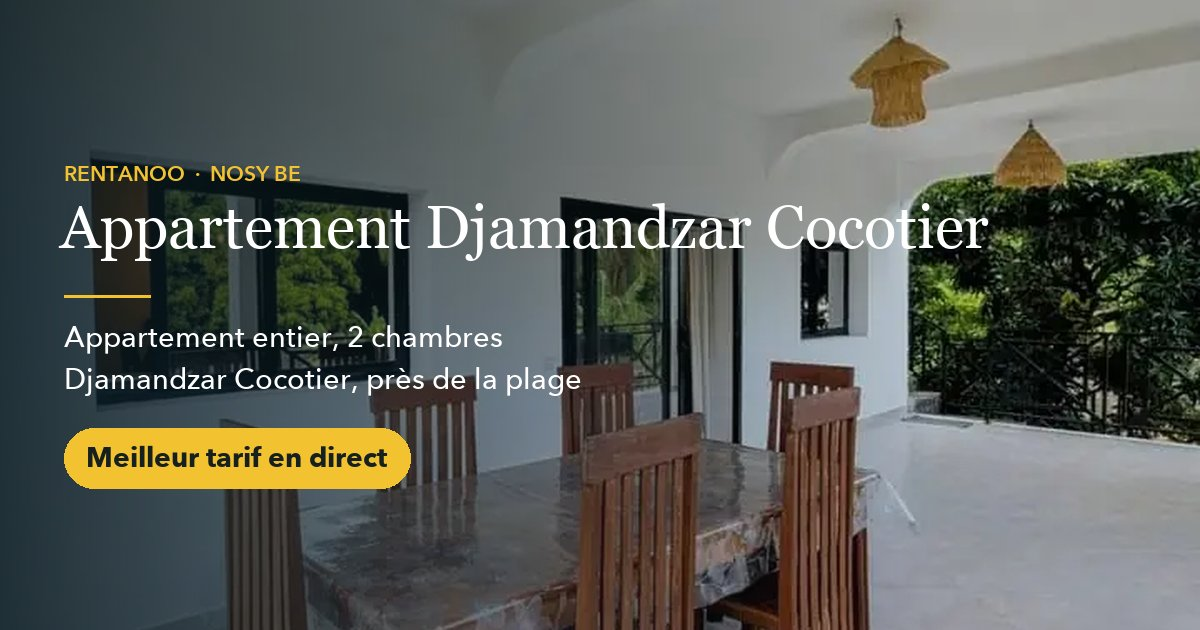
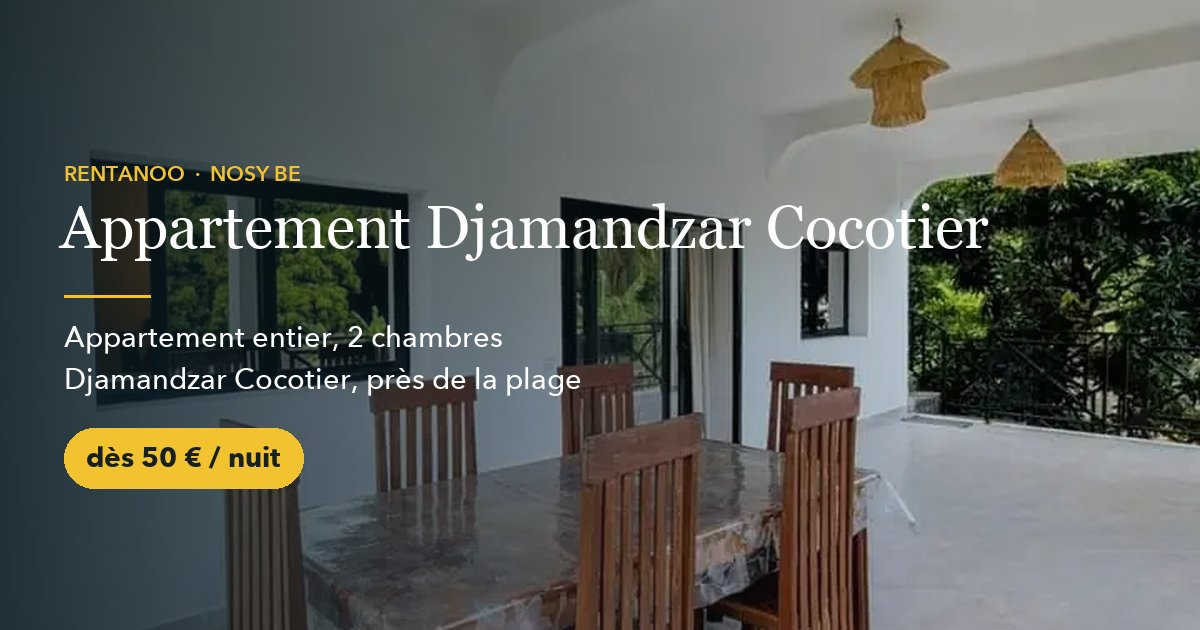
Prix affiché : dès 50 € la nuit (offre de Fred, plancher 45 €)

Changed region(s): [[0.0617, 0.6635, 0.3392, 0.7841]]

diff --git a/index.html b/index.html
@@ -34,7 +34,7 @@
 <meta name="twitter:image" content="https://chambre-djamandzar.rentanoo.com/images/og.jpg">
 
 <script type="application/ld+json">
-{"@type": "LodgingBusiness", "name": "Appartement Djamandzar Cocotier", "description": "Appartement entier à l'étage à Djamandzar Cocotier (Nosy Be), à deux pas de la plage : 2 chambres, jusqu'à 4 personnes, séjour avec TV, cuisine équipée, salle de bain avec douche et chauffe-eau, WC séparé, grande terrasse couverte avec barbecue, Wi-Fi Starlink, gardien, femme de ménage. Pas de climatisation (ventilateurs).", "url": "https://chambre-djamandzar.rentanoo.com/", "image": ["https://chambre-djamandzar.rentanoo.com/images/og.jpg", "https://chambre-djamandzar.rentanoo.com/images/repas-1.webp"], "telephone": "+261373437912", "email": "chrisrentanoo@gmail.com", "address": {"@type": "PostalAddress", "addressLocality": "Djamandzar", "addressRegion": "Nosy Be", "addressCountry": "MG"}, "areaServed": "Nosy Be", "amenityFeature": [{"@type": "LocationFeatureSpecification", "name": "Wifi Starlink", "value": true}, {"@type": "LocationFeatureSpecification", "name": "Salle de bain", "value": true}, {"@type": "LocationFeatureSpecification", "name": "Cuisine équipée", "value": true}, {"@type": "LocationFeatureSpecification", "name": "Terrasse", "value": true}, {"@type": "LocationFeatureSpecification", "name": "Barbecue", "value": true}, {"@type": "LocationFeatureSpecification", "name": "Gardien sur place", "value": true}, {"@type": "LocationFeatureSpecification", "name": "Femme de ménage", "value": true}, {"@type": "LocationFeatureSpecification", "name": "Espace de travail", "value": true}], "sameAs": ["https://rentanoo.com/hebergement/6D419168"], "numberOfRooms": 2, "@context": "https://schema.org"}
+{"@type": "LodgingBusiness", "name": "Appartement Djamandzar Cocotier", "description": "Appartement entier à l'étage à Djamandzar Cocotier (Nosy Be), à deux pas de la plage : 2 chambres, jusqu'à 4 personnes, séjour avec TV, cuisine équipée, salle de bain avec douche et chauffe-eau, WC séparé, grande terrasse couverte avec barbecue, Wi-Fi Starlink, gardien, femme de ménage. Pas de climatisation (ventilateurs).", "url": "https://chambre-djamandzar.rentanoo.com/", "image": ["https://chambre-djamandzar.rentanoo.com/images/og.jpg", "https://chambre-djamandzar.rentanoo.com/images/repas-1.webp"], "telephone": "+261373437912", "email": "chrisrentanoo@gmail.com", "address": {"@type": "PostalAddress", "addressLocality": "Djamandzar", "addressRegion": "Nosy Be", "addressCountry": "MG"}, "areaServed": "Nosy Be", "amenityFeature": [{"@type": "LocationFeatureSpecification", "name": "Wifi Starlink", "value": true}, {"@type": "LocationFeatureSpecification", "name": "Salle de bain", "value": true}, {"@type": "LocationFeatureSpecification", "name": "Cuisine équipée", "value": true}, {"@type": "LocationFeatureSpecification", "name": "Terrasse", "value": true}, {"@type": "LocationFeatureSpecification", "name": "Barbecue", "value": true}, {"@type": "LocationFeatureSpecification", "name": "Gardien sur place", "value": true}, {"@type": "LocationFeatureSpecification", "name": "Femme de ménage", "value": true}, {"@type": "LocationFeatureSpecification", "name": "Espace de travail", "value": true}], "sameAs": ["https://rentanoo.com/hebergement/6D419168"], "numberOfRooms": 2, "priceRange": "À partir de 50 € la nuit", "currenciesAccepted": "EUR", "@context": "https://schema.org"}
 </script>
 
 <link rel="preconnect" href="https://fonts.googleapis.com">
@@ -298,11 +298,11 @@
     <p data-i18n="k42" class="hero-sub">Un appartement entier de 2 chambres au milieu des cocotiers, à deux pas de la plage, avec grande terrasse et Wi-Fi Starlink.</p>
     <ul class="chips"><li><span data-i18n="k1">Appartement entier</span></li><li><span data-i18n="k2">Jusqu'à 4 personnes</span></li><li><span data-i18n="k3">Wifi Starlink</span></li><li><span data-i18n="k4">Minimum 3 nuits</span></li></ul>
     <div class="hero-row">
-      <span class="price-tag ask"><b data-i18n="best">Meilleur tarif en direct</b></span>
+      <span class="price-tag"><span data-i18n="from">dès</span> <b>50 €</b> <span data-i18n="per-night">la nuit</span></span>
       <a class="btn btn-cta" href="#reservation" data-i18n="cta-dates">Demander mes dates</a>
       <a class="btn btn-ghost" href="#" data-wa="hero"><svg><use href="#i-wa"/></svg>WhatsApp</a>
     </div>
-    <p data-i18n="k37" class="price-note">Prix sur demande selon vos dates · réponse rapide sur WhatsApp</p>
+    <p data-i18n="k37" class="price-note">Le meilleur tarif, c'est en direct · réponse rapide sur WhatsApp</p>
   </div>
 </section>
 
@@ -412,7 +412,7 @@
   <div class="wrap">
     <div class="resa-head" data-reveal>
       <p data-i18n="resa-eyebrow" class="eyebrow">Réservation</p>
-      <div class="resa-price"><span data-i18n="best">Meilleur tarif en direct</span></div>
+      <div class="resa-price"><span data-i18n="from">dès</span> <b>50 €</b> <span data-i18n="per-night">la nuit</span></div>
       <h2 data-i18n="resa-title" class="h2">Demandez vos dates</h2>
       <p data-i18n="resa-text">Choisissez vos dates et laissez-nous vos coordonnées : on revient vers vous très vite avec la disponibilité et le meilleur prix.</p>
     </div>
@@ -460,7 +460,7 @@
 </footer>
 
 <div id="sticky" aria-hidden="true">
-  <div class="p"><b data-i18n="best" style="font-size:14px">Meilleur tarif en direct</b></div>
+  <div class="p"><span data-i18n="from">dès</span> <b>50 € <span style="font-size:12px;font-weight:600;color:var(--ink-2)" data-i18n="per-night">la nuit</span></b></div>
   <a class="btn btn-cta" href="#reservation" data-i18n="cta-dates">Demander mes dates</a>
 </div>
 
@@ -511,7 +511,7 @@ if('IntersectionObserver' in window){var io=new IntersectionObserver(function(es
 else document.querySelectorAll('[data-reveal]').forEach(function(el){el.classList.add('in')});
 
 /* Traductions : FR dans le HTML, IT/EN ici (générées par build.py, clé = data-i18n) */
-var T={"k1": {"it": "Appartamento intero", "en": "Whole apartment"}, "k2": {"it": "Fino a 4 persone", "en": "Up to 4 guests"}, "k3": {"it": "Wi-Fi Starlink", "en": "Starlink Wi-Fi"}, "k4": {"it": "Minimo 3 notti", "en": "3-night minimum"}, "k5": {"it": "Appartamento intero, 2 camere", "en": "Whole apartment, 2 bedrooms"}, "k6": {"it": "Fino a 4 persone", "en": "Up to 4 guests"}, "k7": {"it": "A due passi dalla spiaggia", "en": "A short walk from the beach"}, "k8": {"it": "Wi-Fi Starlink", "en": "Starlink Wi-Fi"}, "k9": {"it": "Grande terrazza con barbecue", "en": "Large terrace with barbecue"}, "k10": {"it": "Netflix sulla TV del soggiorno", "en": "Netflix on the living-room TV"}, "k11": {"it": "Custode sul posto", "en": "Caretaker on site"}, "k12": {"it": "Governante", "en": "Housekeeper"}, "k13": {"it": "Un appartamento intero al primo piano, a Djamandzar Cocotier, a due passi dalla spiaggia.", "en": "A whole upstairs apartment in Djamandzar Cocotier, a short walk from the beach."}, "k14": {"it": "2 camere, un soggiorno luminoso con TV e Netflix, una cucina attrezzata con bancone, un bagno con doppio lavabo, doccia e scaldabagno, e un WC separato. Fuori, una grande terrazza coperta con tavolo e barbecue, davanti al giardino e alle palme.", "en": "2 bedrooms, a bright living room with TV and Netflix, an equipped kitchen with a bar, a bathroom with a double basin, shower and water heater, and a separate WC. Outside, a large covered terrace with a table and barbecue, facing the garden and the palms."}, "k15": {"it": "Wi-Fi Starlink e spazio per lavorare. Niente aria condizionata: ventilatori a parete in soggiorno e 2 ventilatori per camera, vetri anti-calore e zanzariere ovunque. Custode e governante sul posto.", "en": "Starlink Wi-Fi and a spot to work from. No air conditioning: wall fans in the living room and 2 fans in each bedroom, heat-filtering windows and mosquito screens throughout. Caretaker and housekeeper on site."}, "k16": {"it": "A due passi dai ristoranti del Nosy Be Hotel e dai bar di Djamandzar.", "en": "A stone's throw from the Nosy Be Hotel restaurants and the bars of Djamandzar."}, "k17": {"it": "Le camere", "en": "The bedrooms"}, "k18": {"it": "2 camere", "en": "2 bedrooms"}, "k19": {"it": "Fino a 4 persone", "en": "Up to 4 guests"}, "k20": {"it": "Soggiorno minimo 3 notti", "en": "3-night minimum stay"}, "k21": {"it": "Cancellazione gratuita fino a 72 ore prima dell'arrivo", "en": "Free cancellation up to 72 h before arrival"}, "k22": {"it": "Massimo 4 persone", "en": "4 guests maximum"}, "k23": {"it": "Le 2 camere", "en": "The 2 bedrooms"}, "k24": {"it": "Due camere, ognuna con 2 ventilatori, vetri anti-calore e zanzariere.", "en": "Two bedrooms, each with 2 fans, heat-filtering windows and mosquito screens."}, "see-photos": {"it": "Vedi le foto", "en": "See the photos"}, "k25": {"it": "Soggiorno, cucina e terrazza", "en": "Living room, kitchen & terrace"}, "k26": {"it": "Cucina attrezzata", "en": "Equipped kitchen"}, "k27": {"it": "Terrazza", "en": "Terrace"}, "k28": {"it": "Barbecue", "en": "Barbecue"}, "k29": {"it": "Soggiorno, cucina e terrazza", "en": "Living room, kitchen & terrace"}, "k30": {"it": "Una cucina attrezzata con bancone e sgabelli, un soggiorno con TV e Netflix, e una grande terrazza coperta con tavolo e barbecue, davanti al giardino.", "en": "An equipped kitchen with a bar and stools, a living room with TV and Netflix, and a large covered terrace with a table and barbecue, facing the garden."}, "k31": {"it": "Bagno", "en": "Bathroom"}, "k32": {"it": "Doccia", "en": "Shower"}, "k33": {"it": "Acqua calda", "en": "Hot water"}, "k34": {"it": "WC separato", "en": "Separate WC"}, "k35": {"it": "Il bagno", "en": "The bathroom"}, "k36": {"it": "Un bagno con doppio lavabo, doccia e scaldabagno, e un WC separato.", "en": "A bathroom with a double basin, shower and water heater, plus a separate WC."}, "k37": {"it": "Prezzo su richiesta in base alle date · risposta rapida su WhatsApp", "en": "Price on request for your dates · quick reply on WhatsApp"}, "cta-book": {"it": "Prenota", "en": "Book"}, "cta-dates": {"it": "Chiedi le tue date", "en": "Request your dates"}, "best": {"it": "Tariffa migliore prenotando direttamente", "en": "Best rate when you book direct"}, "pf-best": {"it": "Tariffa migliore", "en": "Best rate"}, "k38": {"it": "L'alloggio", "en": "The place"}, "k39": {"it": "Stanza per stanza", "en": "Room by room"}, "k40": {"it": "Il quartiere", "en": "The area"}, "k41": {"it": "Djamandzar Cocotier · Nosy Be", "en": "Djamandzar Cocotier · Nosy Be"}, "k42": {"it": "Un appartamento intero con 2 camere tra le palme da cocco, a due passi dalla spiaggia, con grande terrazza e Wi-Fi Starlink.", "en": "A whole 2-bedroom apartment among the coconut palms, a short walk from the beach, with a large terrace and Starlink Wi-Fi."}, "k43": {"it": "Appartamento intero", "en": "Whole apartment"}, "k44": {"it": "Tra le palme da cocco", "en": "Among the coconut palms"}, "direct-eyebrow": {"it": "Prenota direttamente", "en": "Book direct"}, "direct-title": {"it": "La tariffa migliore è qui", "en": "The best rate is here"}, "direct-text": {"it": "Sulle piattaforme il prezzo a notte include le loro commissioni. Prenotando direttamente con noi pagate meno: inviateci le date e vi rispondiamo con il prezzo migliore.", "en": "On booking platforms, the nightly price includes their commissions. Book directly with us and you pay less: send us your dates and we reply with the best price."}, "direct-1": {"it": "Più conveniente delle piattaforme per le stesse date", "en": "Cheaper than the platforms for the same dates"}, "direct-2": {"it": "Parlate direttamente con noi, risposta rapida su WhatsApp", "en": "You talk directly to us, quick replies on WhatsApp"}, "direct-3": {"it": "Transfer, scooter, auto o escursione organizzati subito", "en": "Transfer, scooter, car or excursion arranged in one go"}, "rooms-eyebrow": {"it": "Stanza per stanza", "en": "Room by room"}, "k45": {"it": "Visitate l'alloggio", "en": "Take the tour"}, "rooms-lead": {"it": "Tutte le foto sono dell'alloggio. Toccate una foto per ingrandirla.", "en": "All photos are of the place itself. Tap a photo to enlarge it."}, "area-eyebrow": {"it": "Il quartiere", "en": "The area"}, "k46": {"it": "Djamandzar, tra le palme da cocco", "en": "Djamandzar, among the coconut palms"}, "k47": {"it": "Djamandzar Cocotier, sulla costa ovest di Nosy Be: la spiaggia a due passi, i ristoranti del Nosy Be Hotel e i bar della zona vicinissimi.", "en": "Djamandzar Cocotier, on the west coast of Nosy Be: the beach a short walk away, the Nosy Be Hotel restaurants and the local bars close by."}, "host-eyebrow": {"it": "Prenotazione", "en": "Booking"}, "host-title": {"it": "Ciao, sono Chris", "en": "Hi, I'm Chris"}, "k48": {"it": "Con Rentanoo accolgo viaggiatori a Nosy Be tutto l'anno e gestisco le prenotazioni di diversi alloggi sull'isola, tra cui questo. Il mio lavoro è rendervi il soggiorno facile.", "en": "With Rentanoo I welcome travellers to Nosy Be all year round and handle bookings for several places on the island, including this one. My job is to make your stay easy."}, "host-2": {"it": "Rispondo rapidamente, dalla mattina alla sera, in francese, inglese o italiano.", "en": "I reply quickly, from morning to evening, in French, English or Italian."}, "svc-title": {"it": "Su richiesta, Rentanoo organizza anche:", "en": "On request, Rentanoo also arranges:"}, "svc-1": {"it": "Transfer dall'aeroporto", "en": "Airport transfer"}, "svc-2": {"it": "Noleggio di scooter o quad", "en": "Scooter or quad rental"}, "svc-3": {"it": "Escursioni e taxi-boat", "en": "Excursions and taxi-boat"}, "svc-4": {"it": "Auto con o senza autista", "en": "Car with or without a driver"}, "resa-eyebrow": {"it": "Prenotazione", "en": "Booking"}, "resa-title": {"it": "Chiedete le vostre date", "en": "Request your dates"}, "resa-text": {"it": "Scegliete le date e lasciateci i vostri recapiti: vi ricontattiamo molto presto con la disponibilità e il prezzo migliore.", "en": "Pick your dates and leave your details: we will get back to you very quickly with availability and the best price."}, "f-in": {"it": "Arrivo", "en": "Check-in"}, "f-out": {"it": "Partenza", "en": "Check-out"}, "f-guests": {"it": "Ospiti", "en": "Guests"}, "f-first": {"it": "Nome", "en": "First name"}, "f-last": {"it": "Cognome", "en": "Last name"}, "f-tel": {"it": "Telefono (WhatsApp)", "en": "Phone (WhatsApp)"}, "f-mail": {"it": "E-mail", "en": "Email"}, "f-msg": {"it": "Messaggio (facoltativo): transfer, scooter, escursione…", "en": "Message (optional): transfer, scooter, excursion…"}, "f-send": {"it": "Invia la richiesta", "en": "Send my request"}, "f-free": {"it": "Gratis e senza impegno · risposta rapida", "en": "Free, no commitment · quick reply"}, "alt-text": {"it": "Preferite scrivere?", "en": "Prefer to write?"}, "pf-eyebrow": {"it": "Anche online su", "en": "Also listed on"}, "pf-text": {"it": "Preferite passare da una piattaforma? Trovate l'alloggio qui.", "en": "Prefer to use a platform? Find the place here."}, "ft-powered": {"it": "Sito realizzato da", "en": "Site powered by"}};
+var T={"k1": {"it": "Appartamento intero", "en": "Whole apartment"}, "k2": {"it": "Fino a 4 persone", "en": "Up to 4 guests"}, "k3": {"it": "Wi-Fi Starlink", "en": "Starlink Wi-Fi"}, "k4": {"it": "Minimo 3 notti", "en": "3-night minimum"}, "k5": {"it": "Appartamento intero, 2 camere", "en": "Whole apartment, 2 bedrooms"}, "k6": {"it": "Fino a 4 persone", "en": "Up to 4 guests"}, "k7": {"it": "A due passi dalla spiaggia", "en": "A short walk from the beach"}, "k8": {"it": "Wi-Fi Starlink", "en": "Starlink Wi-Fi"}, "k9": {"it": "Grande terrazza con barbecue", "en": "Large terrace with barbecue"}, "k10": {"it": "Netflix sulla TV del soggiorno", "en": "Netflix on the living-room TV"}, "k11": {"it": "Custode sul posto", "en": "Caretaker on site"}, "k12": {"it": "Governante", "en": "Housekeeper"}, "k13": {"it": "Un appartamento intero al primo piano, a Djamandzar Cocotier, a due passi dalla spiaggia.", "en": "A whole upstairs apartment in Djamandzar Cocotier, a short walk from the beach."}, "k14": {"it": "2 camere, un soggiorno luminoso con TV e Netflix, una cucina attrezzata con bancone, un bagno con doppio lavabo, doccia e scaldabagno, e un WC separato. Fuori, una grande terrazza coperta con tavolo e barbecue, davanti al giardino e alle palme.", "en": "2 bedrooms, a bright living room with TV and Netflix, an equipped kitchen with a bar, a bathroom with a double basin, shower and water heater, and a separate WC. Outside, a large covered terrace with a table and barbecue, facing the garden and the palms."}, "k15": {"it": "Wi-Fi Starlink e spazio per lavorare. Niente aria condizionata: ventilatori a parete in soggiorno e 2 ventilatori per camera, vetri anti-calore e zanzariere ovunque. Custode e governante sul posto.", "en": "Starlink Wi-Fi and a spot to work from. No air conditioning: wall fans in the living room and 2 fans in each bedroom, heat-filtering windows and mosquito screens throughout. Caretaker and housekeeper on site."}, "k16": {"it": "A due passi dai ristoranti del Nosy Be Hotel e dai bar di Djamandzar.", "en": "A stone's throw from the Nosy Be Hotel restaurants and the bars of Djamandzar."}, "k17": {"it": "Le camere", "en": "The bedrooms"}, "k18": {"it": "2 camere", "en": "2 bedrooms"}, "k19": {"it": "Fino a 4 persone", "en": "Up to 4 guests"}, "k20": {"it": "Soggiorno minimo 3 notti", "en": "3-night minimum stay"}, "k21": {"it": "Cancellazione gratuita fino a 72 ore prima dell'arrivo", "en": "Free cancellation up to 72 h before arrival"}, "k22": {"it": "Massimo 4 persone", "en": "4 guests maximum"}, "k23": {"it": "Le 2 camere", "en": "The 2 bedrooms"}, "k24": {"it": "Due camere, ognuna con 2 ventilatori, vetri anti-calore e zanzariere.", "en": "Two bedrooms, each with 2 fans, heat-filtering windows and mosquito screens."}, "see-photos": {"it": "Vedi le foto", "en": "See the photos"}, "k25": {"it": "Soggiorno, cucina e terrazza", "en": "Living room, kitchen & terrace"}, "k26": {"it": "Cucina attrezzata", "en": "Equipped kitchen"}, "k27": {"it": "Terrazza", "en": "Terrace"}, "k28": {"it": "Barbecue", "en": "Barbecue"}, "k29": {"it": "Soggiorno, cucina e terrazza", "en": "Living room, kitchen & terrace"}, "k30": {"it": "Una cucina attrezzata con bancone e sgabelli, un soggiorno con TV e Netflix, e una grande terrazza coperta con tavolo e barbecue, davanti al giardino.", "en": "An equipped kitchen with a bar and stools, a living room with TV and Netflix, and a large covered terrace with a table and barbecue, facing the garden."}, "k31": {"it": "Bagno", "en": "Bathroom"}, "k32": {"it": "Doccia", "en": "Shower"}, "k33": {"it": "Acqua calda", "en": "Hot water"}, "k34": {"it": "WC separato", "en": "Separate WC"}, "k35": {"it": "Il bagno", "en": "The bathroom"}, "k36": {"it": "Un bagno con doppio lavabo, doccia e scaldabagno, e un WC separato.", "en": "A bathroom with a double basin, shower and water heater, plus a separate WC."}, "from": {"it": "da", "en": "from"}, "per-night": {"it": "a notte", "en": "per night"}, "k37": {"it": "La tariffa migliore è prenotando direttamente · risposta rapida su WhatsApp", "en": "The best rate is when you book direct · quick reply on WhatsApp"}, "cta-book": {"it": "Prenota", "en": "Book"}, "cta-dates": {"it": "Chiedi le tue date", "en": "Request your dates"}, "best": {"it": "Tariffa migliore prenotando direttamente", "en": "Best rate when you book direct"}, "pf-best": {"it": "Tariffa migliore", "en": "Best rate"}, "k38": {"it": "L'alloggio", "en": "The place"}, "k39": {"it": "Stanza per stanza", "en": "Room by room"}, "k40": {"it": "Il quartiere", "en": "The area"}, "k41": {"it": "Djamandzar Cocotier · Nosy Be", "en": "Djamandzar Cocotier · Nosy Be"}, "k42": {"it": "Un appartamento intero con 2 camere tra le palme da cocco, a due passi dalla spiaggia, con grande terrazza e Wi-Fi Starlink.", "en": "A whole 2-bedroom apartment among the coconut palms, a short walk from the beach, with a large terrace and Starlink Wi-Fi."}, "k43": {"it": "Appartamento intero", "en": "Whole apartment"}, "k44": {"it": "Tra le palme da cocco", "en": "Among the coconut palms"}, "direct-eyebrow": {"it": "Prenota direttamente", "en": "Book direct"}, "direct-title": {"it": "La tariffa migliore è qui", "en": "The best rate is here"}, "direct-text": {"it": "Sulle piattaforme il prezzo a notte include le loro commissioni. Prenotando direttamente con noi pagate meno: inviateci le date e vi rispondiamo con il prezzo migliore.", "en": "On booking platforms, the nightly price includes their commissions. Book directly with us and you pay less: send us your dates and we reply with the best price."}, "direct-1": {"it": "Più conveniente delle piattaforme per le stesse date", "en": "Cheaper than the platforms for the same dates"}, "direct-2": {"it": "Parlate direttamente con noi, risposta rapida su WhatsApp", "en": "You talk directly to us, quick replies on WhatsApp"}, "direct-3": {"it": "Transfer, scooter, auto o escursione organizzati subito", "en": "Transfer, scooter, car or excursion arranged in one go"}, "rooms-eyebrow": {"it": "Stanza per stanza", "en": "Room by room"}, "k45": {"it": "Visitate l'alloggio", "en": "Take the tour"}, "rooms-lead": {"it": "Tutte le foto sono dell'alloggio. Toccate una foto per ingrandirla.", "en": "All photos are of the place itself. Tap a photo to enlarge it."}, "area-eyebrow": {"it": "Il quartiere", "en": "The area"}, "k46": {"it": "Djamandzar, tra le palme da cocco", "en": "Djamandzar, among the coconut palms"}, "k47": {"it": "Djamandzar Cocotier, sulla costa ovest di Nosy Be: la spiaggia a due passi, i ristoranti del Nosy Be Hotel e i bar della zona vicinissimi.", "en": "Djamandzar Cocotier, on the west coast of Nosy Be: the beach a short walk away, the Nosy Be Hotel restaurants and the local bars close by."}, "host-eyebrow": {"it": "Prenotazione", "en": "Booking"}, "host-title": {"it": "Ciao, sono Chris", "en": "Hi, I'm Chris"}, "k48": {"it": "Con Rentanoo accolgo viaggiatori a Nosy Be tutto l'anno e gestisco le prenotazioni di diversi alloggi sull'isola, tra cui questo. Il mio lavoro è rendervi il soggiorno facile.", "en": "With Rentanoo I welcome travellers to Nosy Be all year round and handle bookings for several places on the island, including this one. My job is to make your stay easy."}, "host-2": {"it": "Rispondo rapidamente, dalla mattina alla sera, in francese, inglese o italiano.", "en": "I reply quickly, from morning to evening, in French, English or Italian."}, "svc-title": {"it": "Su richiesta, Rentanoo organizza anche:", "en": "On request, Rentanoo also arranges:"}, "svc-1": {"it": "Transfer dall'aeroporto", "en": "Airport transfer"}, "svc-2": {"it": "Noleggio di scooter o quad", "en": "Scooter or quad rental"}, "svc-3": {"it": "Escursioni e taxi-boat", "en": "Excursions and taxi-boat"}, "svc-4": {"it": "Auto con o senza autista", "en": "Car with or without a driver"}, "resa-eyebrow": {"it": "Prenotazione", "en": "Booking"}, "resa-title": {"it": "Chiedete le vostre date", "en": "Request your dates"}, "resa-text": {"it": "Scegliete le date e lasciateci i vostri recapiti: vi ricontattiamo molto presto con la disponibilità e il prezzo migliore.", "en": "Pick your dates and leave your details: we will get back to you very quickly with availability and the best price."}, "f-in": {"it": "Arrivo", "en": "Check-in"}, "f-out": {"it": "Partenza", "en": "Check-out"}, "f-guests": {"it": "Ospiti", "en": "Guests"}, "f-first": {"it": "Nome", "en": "First name"}, "f-last": {"it": "Cognome", "en": "Last name"}, "f-tel": {"it": "Telefono (WhatsApp)", "en": "Phone (WhatsApp)"}, "f-mail": {"it": "E-mail", "en": "Email"}, "f-msg": {"it": "Messaggio (facoltativo): transfer, scooter, escursione…", "en": "Message (optional): transfer, scooter, excursion…"}, "f-send": {"it": "Invia la richiesta", "en": "Send my request"}, "f-free": {"it": "Gratis e senza impegno · risposta rapida", "en": "Free, no commitment · quick reply"}, "alt-text": {"it": "Preferite scrivere?", "en": "Prefer to write?"}, "pf-eyebrow": {"it": "Anche online su", "en": "Also listed on"}, "pf-text": {"it": "Preferite passare da una piattaforma? Trovate l'alloggio qui.", "en": "Prefer to use a platform? Find the place here."}, "ft-powered": {"it": "Sito realizzato da", "en": "Site powered by"}};
 var TITLE={"fr": "Appartement 2 chambres à Djamandzar Cocotier, Nosy Be — à deux pas de la plage", "it": "Appartamento con 2 camere a Djamandzar Cocotier, Nosy Be — a due passi dalla spiaggia", "en": "2-bedroom apartment at Djamandzar Cocotier, Nosy Be — a short walk from the beach"};
 var MSG={"ok": {"fr": "✅ Demande envoyée ! Un e-mail de confirmation arrive dans votre boîte. On revient vers vous très vite.", "it": "✅ Richiesta inviata! Vi ricontattiamo molto presto.", "en": "✅ Request sent! We'll get back to you very soon."}, "req": {"fr": "Merci de remplir les champs requis.", "it": "Compilate i campi obbligatori.", "en": "Please fill in the required fields."}, "dates": {"fr": "La date de départ doit être après l'arrivée.", "it": "La data di partenza deve essere dopo l'arrivo.", "en": "Check-out must be after check-in."}, "err": {"fr": "Une erreur est survenue. Réessayez, ou écrivez-nous à ", "it": "Si è verificato un errore. Riprovate o scriveteci a ", "en": "Something went wrong. Please try again, or write to "}, "sending": {"fr": "Envoi…", "it": "Invio…", "en": "Sending…"}};
 var WA_NUM='261373437912';
